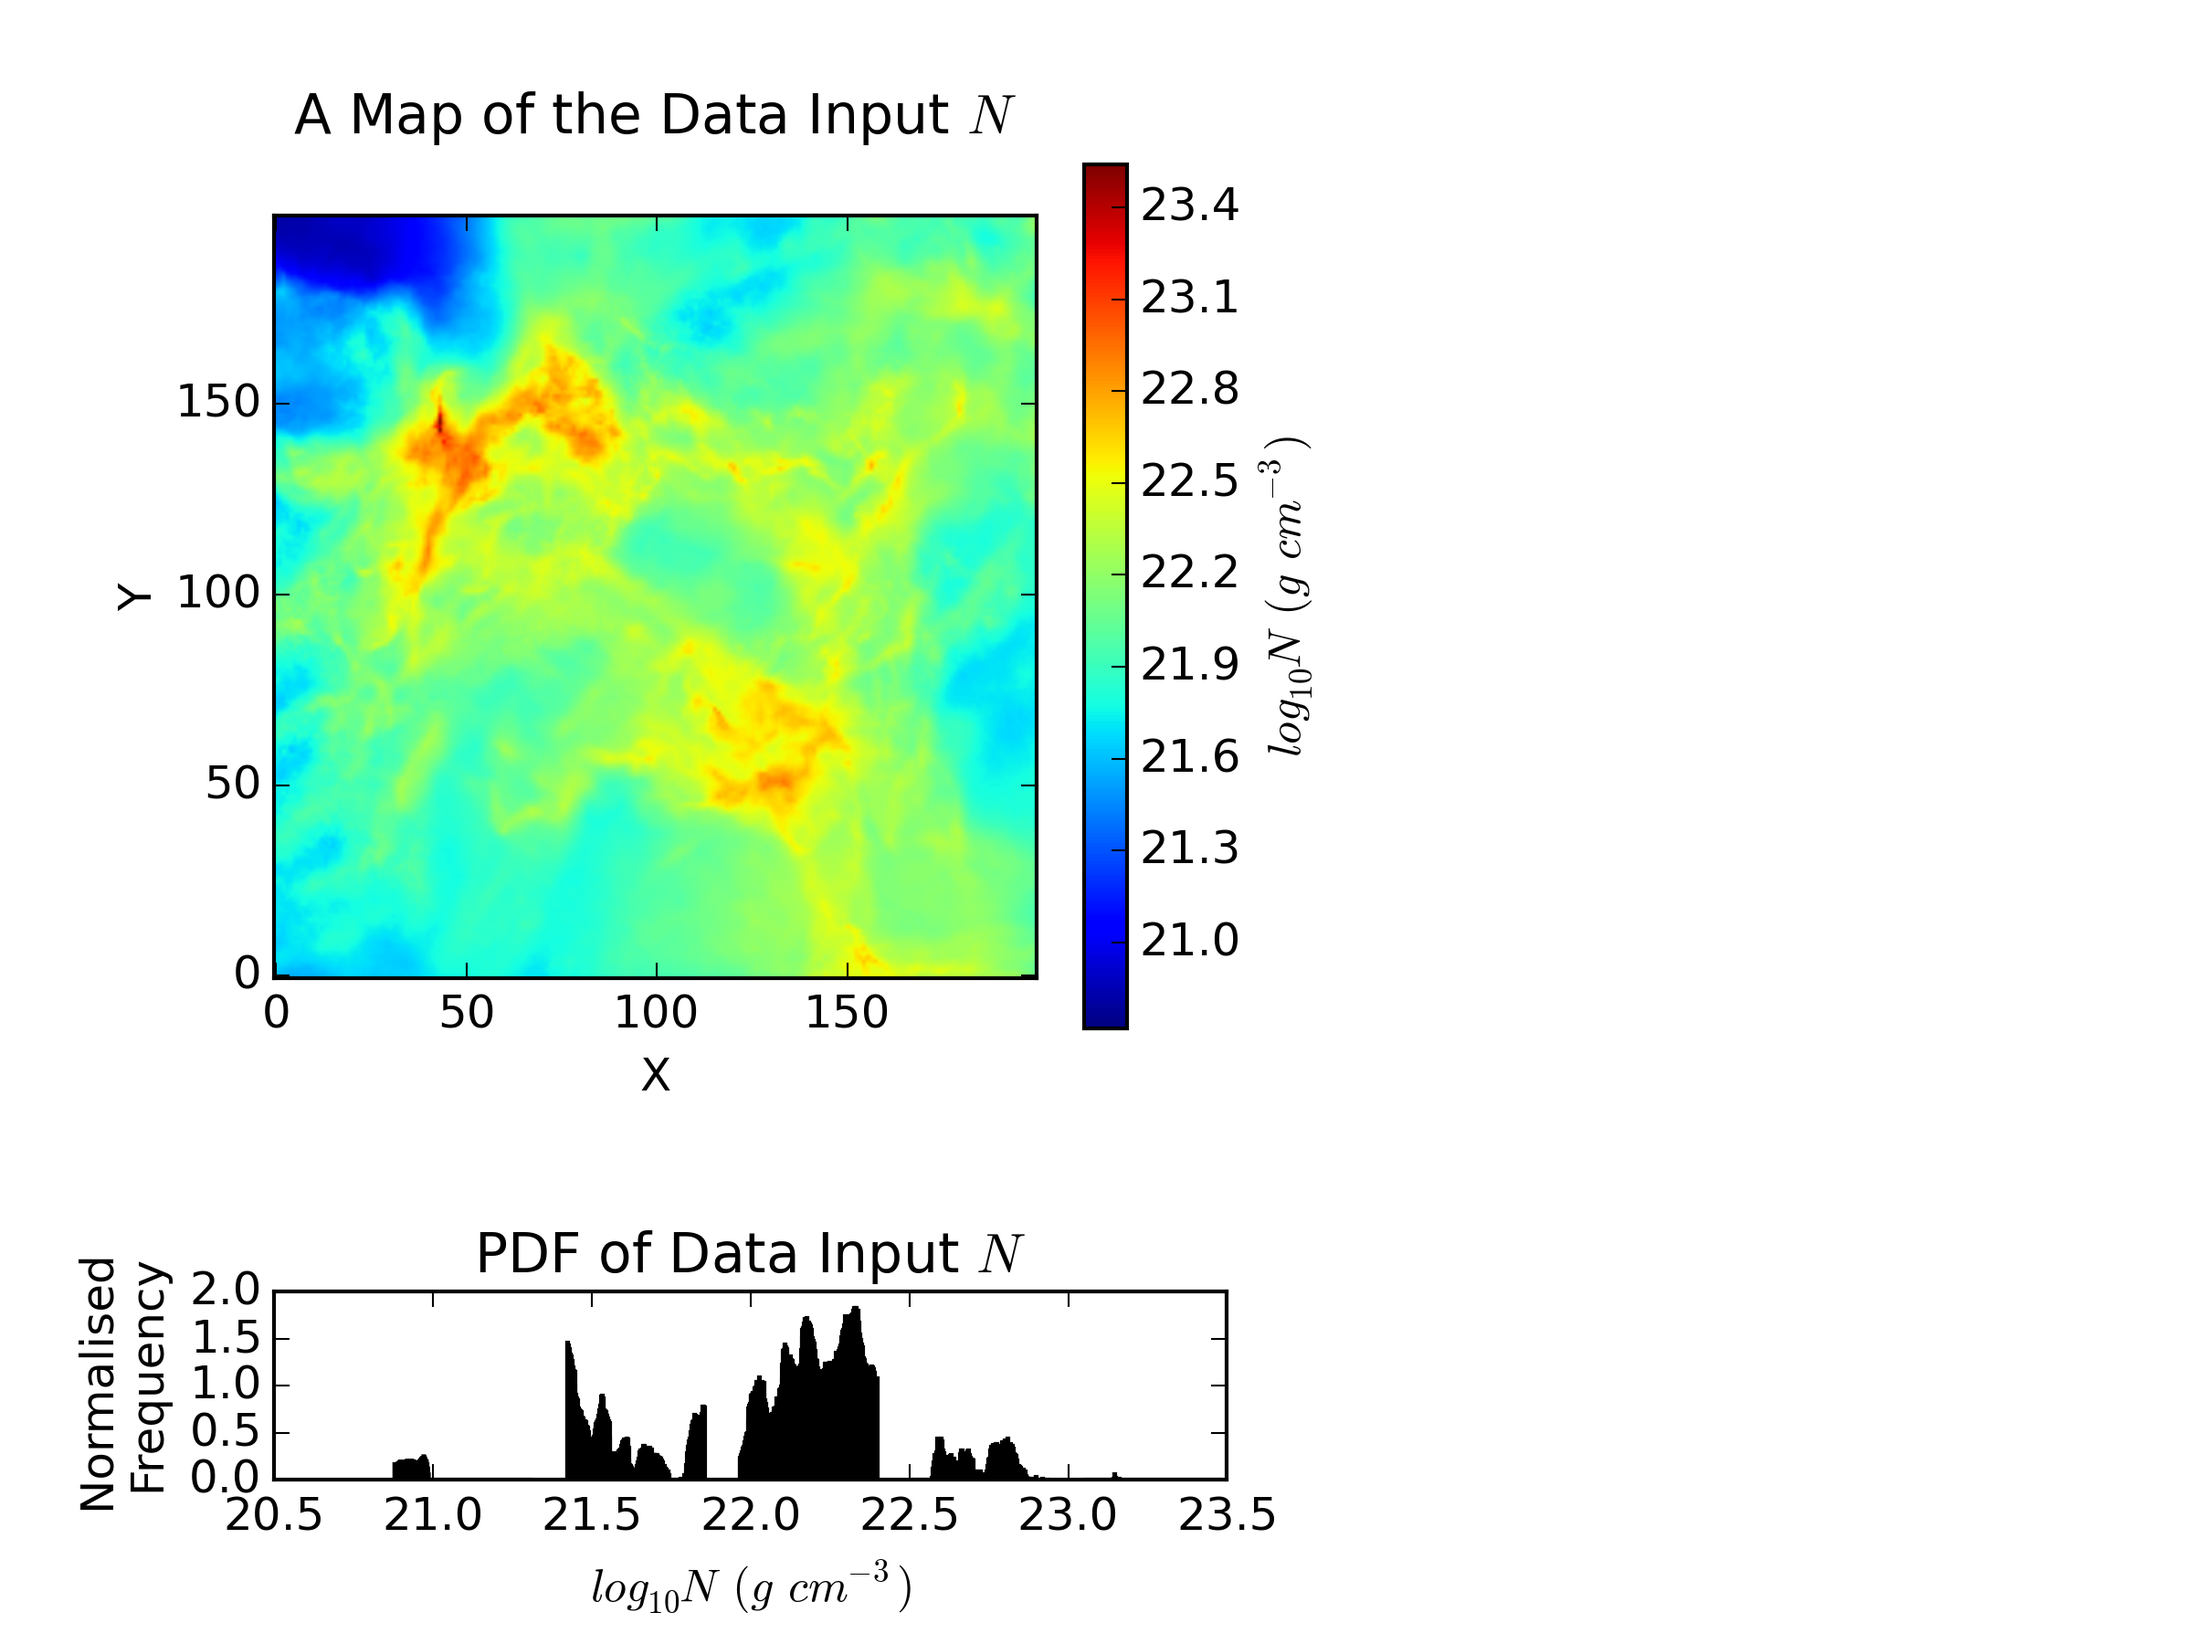
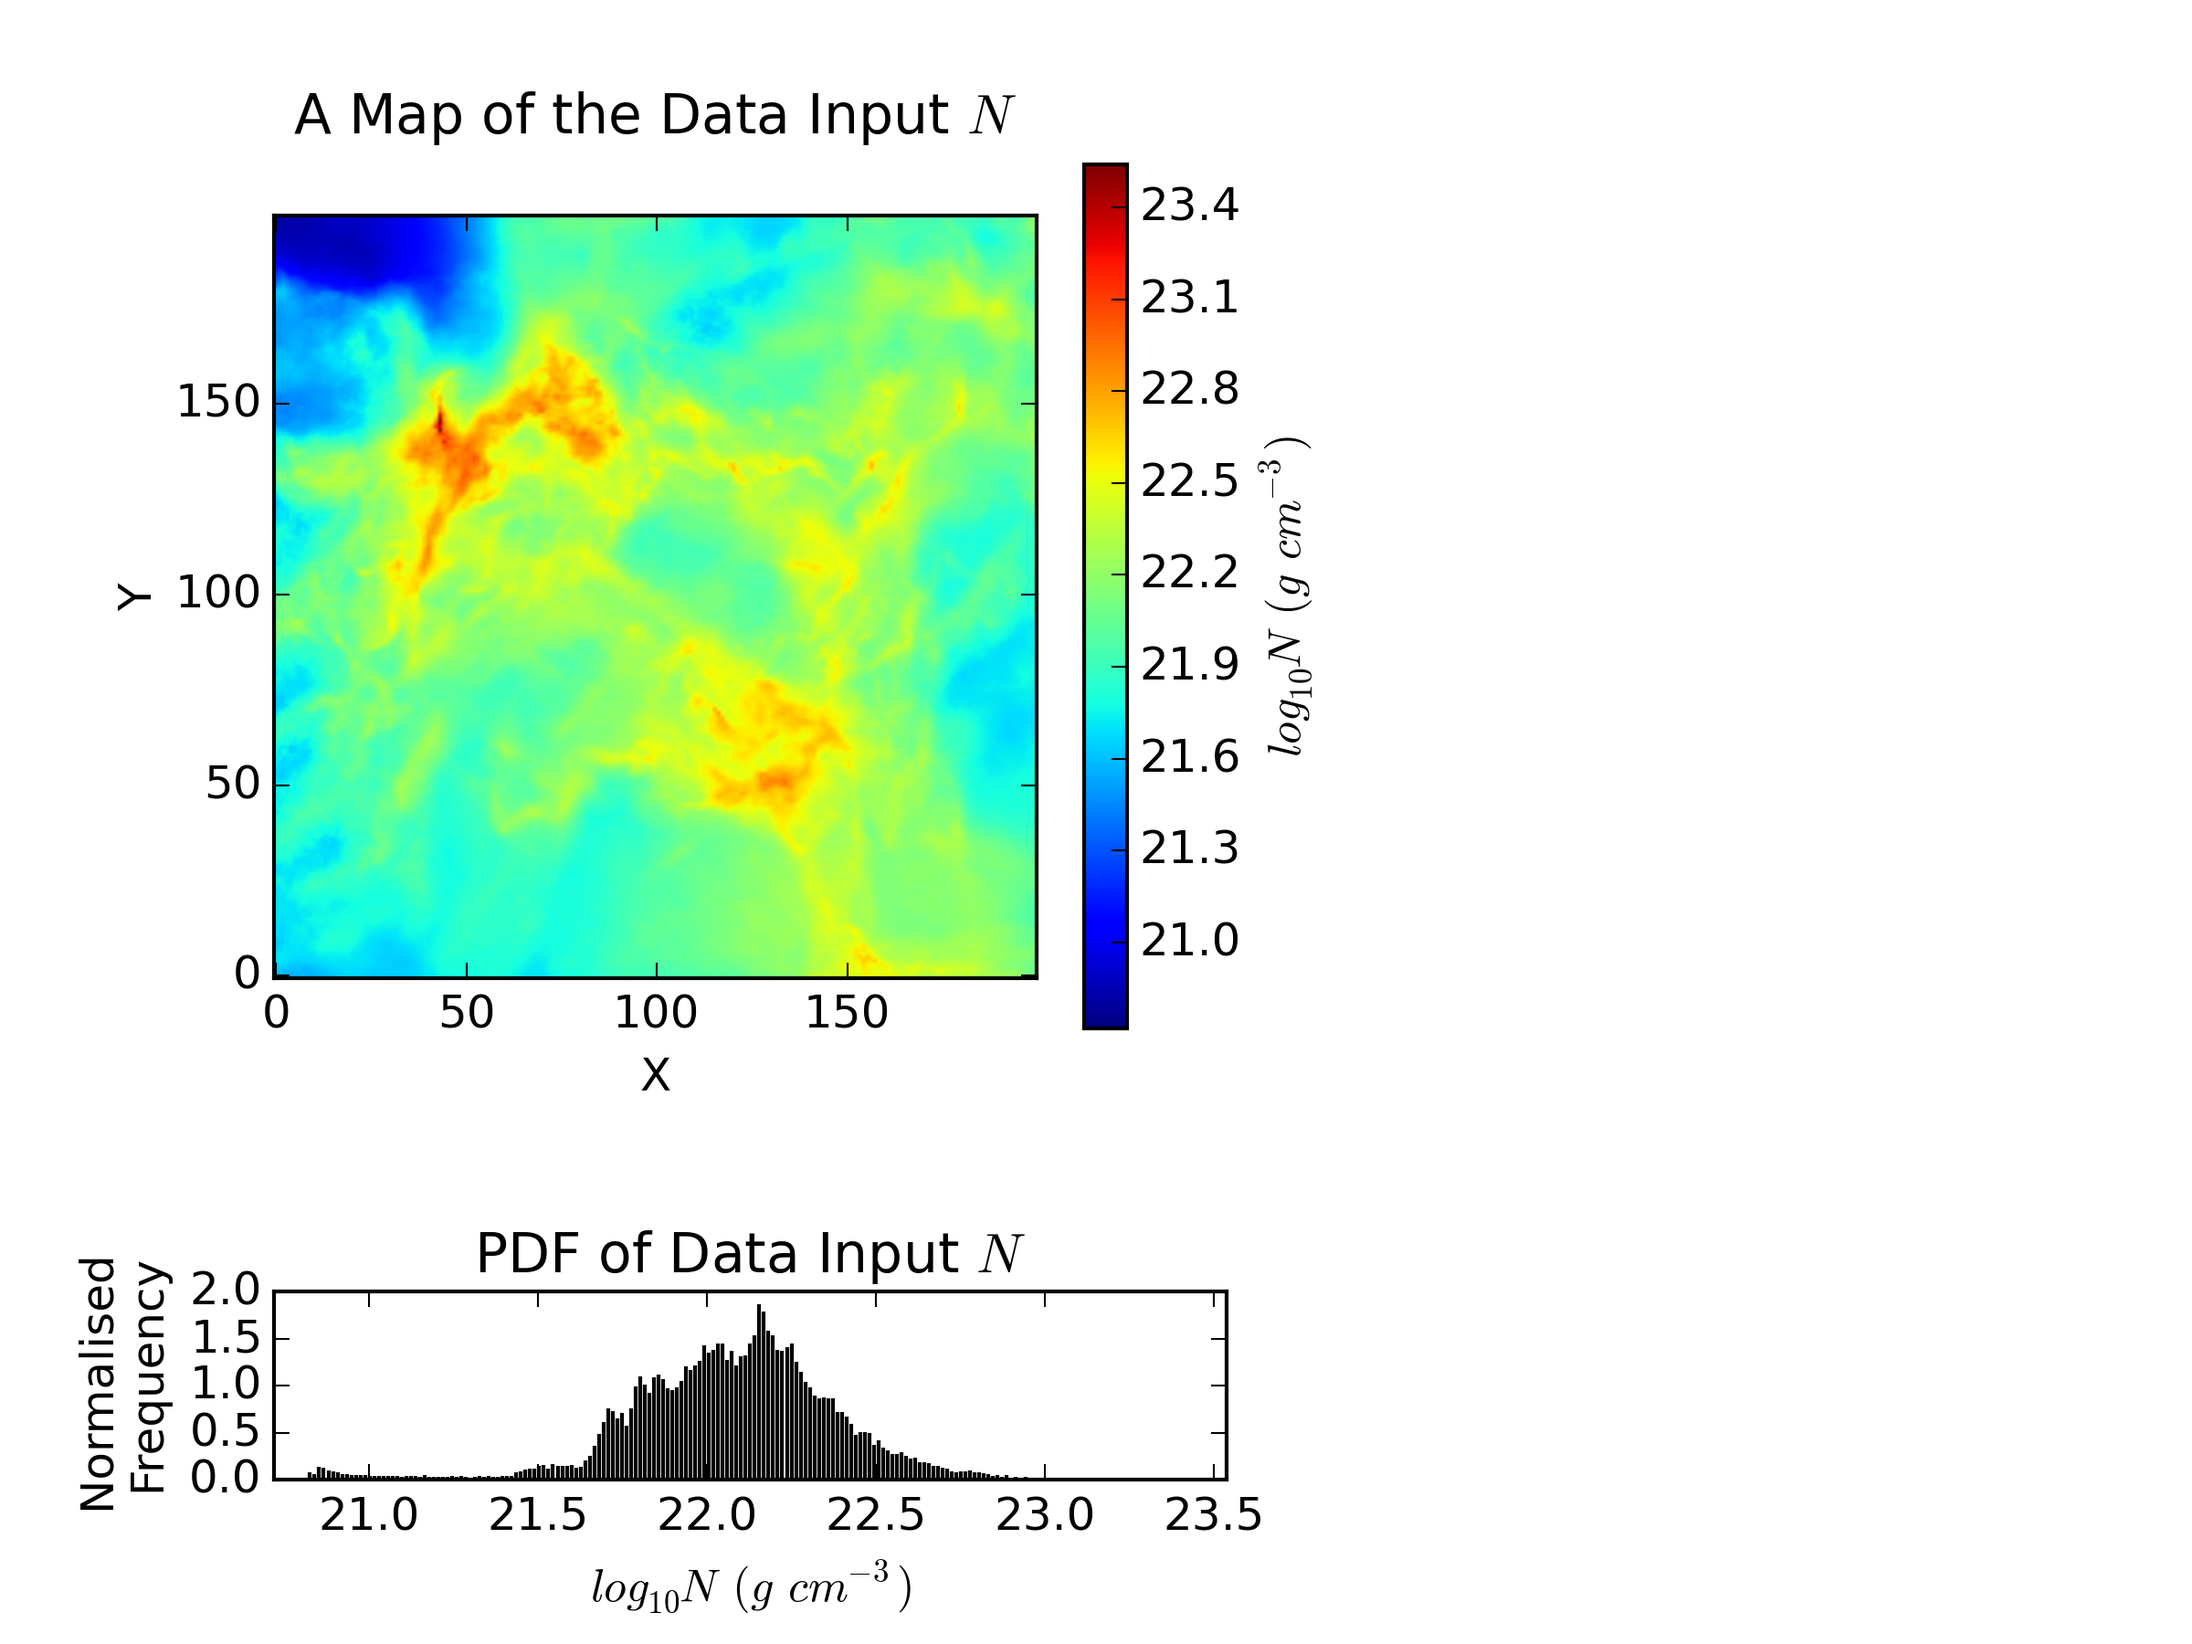
Improved histograms

Changed region(s): [[0.0938, 0.7778, 0.5, 0.9333], [0.5312, 0.9022, 0.5938, 0.9333]]

diff --git a/Code/simulations/imgprocess/sphdata/map.py b/Code/simulations/imgprocess/sphdata/map.py
@@ -58,7 +58,11 @@ ylabel('Y')
 title('A Map of the $\chi^{2}$ Recovered $N$\n')
 
 subplot2grid((6,7), (5,0), colspan=4,rowspan=2)
-hist(np.log10(N_chi_inp),bins=5,normed=True)
+#hist(np.log10(N_chi_inp),bins=5,normed=True)
+h, b = np.histogram(np.log10(N_chi_inp), bins=len(N_chi_inp), density=True)
+#bar(b[:-1],h,width=(max(h)-min(h))/len(N_chi_inp))
+bar(b[:-1],h,width=0)
+xlim(np.log10(min(chi_N)),np.log10(max(inp_N)))
 title('PDF of $\chi^{2}$ Recovered $N$')
 xlabel('$log_{10}N\/(g\/cm^{-3})$')
 ylabel('Normalised \n Frequency')
@@ -76,7 +80,11 @@ ylabel('Y')
 title('A Map of the $\chi^{2}$ Recovered $T$\n')
 
 subplot2grid((6,7), (5,0), colspan=4,rowspan=2)
-hist(T_chi_inp,bins=5,normed=True)
+#hist(T_chi_inp,bins=5,normed=True)
+h, b = np.histogram(T_chi_inp, bins=len(T_chi_inp), density=True)
+#bar(b[:-1],h,width=(max(h)-min(h))/len(T_chi_inp))
+bar(b[:-1],h,width=0)
+xlim(min(inp_T),max(inp_T))
 title('PDF of $\chi^{2}$ Recovered $T$')
 xlabel('$T\/(K)$')
 ylabel('Normalised \n Frequency')
@@ -95,7 +103,11 @@ ylabel('Y')
 title('A Map of the Data Input $N$\n')
 
 subplot2grid((6,7), (5,0), colspan=4,rowspan=2)
-hist(np.log10(N_data_inp),bins=5,normed=True)
+#hist(np.log10(N_data_inp),bins=5,normed=True)
+h, b = np.histogram(np.log10(N_data_inp), bins=len(N_data_inp), density=True)
+#bar(b[:-1],h,width=(max(h)-min(h))/len(N_data_inp))
+bar(b[:-1],h,width=0)
+xlim(np.log10(min(chi_N)),np.log10(max(inp_N)))
 title('PDF of Data Input $N$')
 xlabel('$log_{10}N\/(g\/cm^{-3})$')
 ylabel('Normalised \n Frequency')
@@ -114,7 +126,11 @@ ylabel('Y')
 title('A Map of the Data Input $T$\n')
 
 subplot2grid((6,7), (5,0), colspan=4,rowspan=2)
-hist(T_data_inp,bins=5,normed=True)
+#hist(T_data_inp,bins=5,normed=True)
+h, b = np.histogram(T_data_inp, bins=len(T_data_inp), density=True)
+#bar(b[:-1],h,width=(max(h)-min(h))/len(T_data_inp))
+bar(b[:-1],h,width=0)
+xlim(min(inp_T),max(inp_T))
 title('PDF of Data Input $T$')
 xlabel('$T\/(K)$')
 ylabel('Normalised \n Frequency')

diff --git a/Code/simulations/curvefitting/sphdata/chiv6.py b/Code/simulations/curvefitting/sphdata/chiv6.py
@@ -353,7 +353,7 @@ for h in range(0,imag.nx*imag.ny):
     cs.writerow(cs_towrite)
     #print 'Writing row to datafile...\n'
 
-    if T_index[chi_min_index] < 11:
+    if h < n:
     # Plot the data
         figure(1)
         errorbar(psw[0][4],psw[0][5],yerr=psw[0][-1],fmt='co',label='SPIRE: PSW')
@@ -404,7 +404,7 @@ for h in range(0,imag.nx*imag.ny):
         close()
 
 chi_store.close()
-'''
+
 ###################### Repeat for a second time #######################
 
 # Reopen the chi-squared storage
@@ -595,8 +595,7 @@ for h in range(0,imag.nx*imag.ny):
         close()
 
 chi_fine.close()
-'''
-'''
+
 # Plot the data
 figure(1)
 errorbar(psw[0],psw[1],yerr=psw[2],fmt='co',label='SPIRE: PSW')
